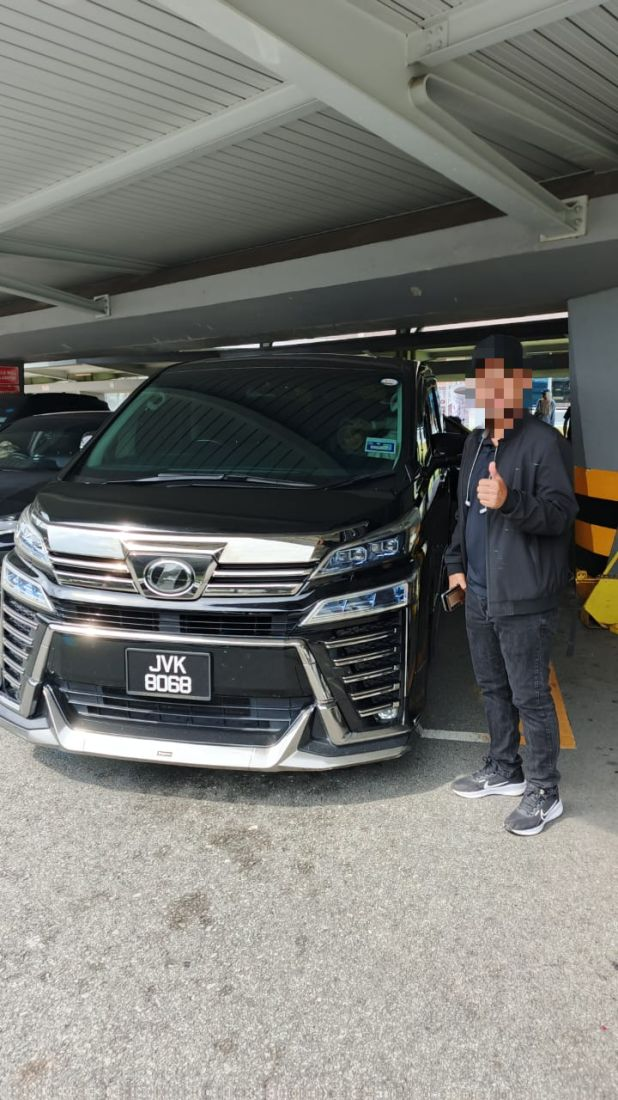
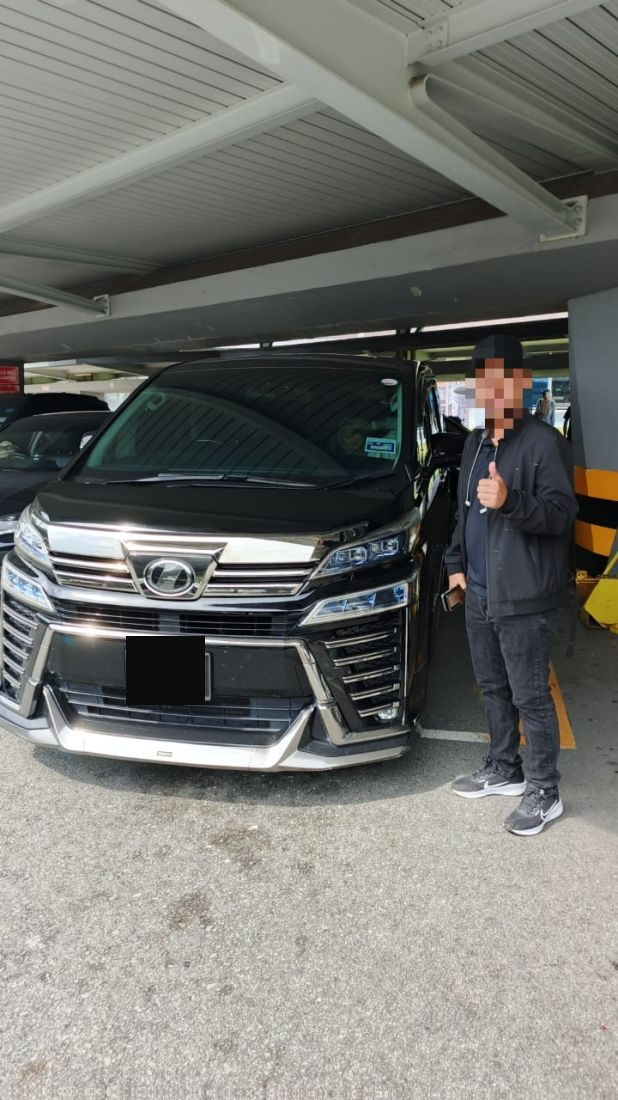
Black out number plates on every published photo
Claude-Session: https://claude.ai/code/session_01TKLcyRHEhYqxs9SZtTLujG

Changed region(s): [[0.1845, 0.5564, 0.3382, 0.6491]]

diff --git a/img/README.md b/img/README.md
@@ -5,3 +5,5 @@ img/customers/  customer handover photos, faces pixelated, web size
 
 Originals (img/VF *.jpeg and img/Customer Photo/) are git-ignored and never published.
 To add a new customer photo: drop it in img/Customer Photo/ and ask Claude to re-run the blur script.
+
+Number plates: painted flat black on the published copies by tools/plates.py (coordinates per file inside the script). After re-running tools/blur.py, run `python tools/plates.py apply` again.
